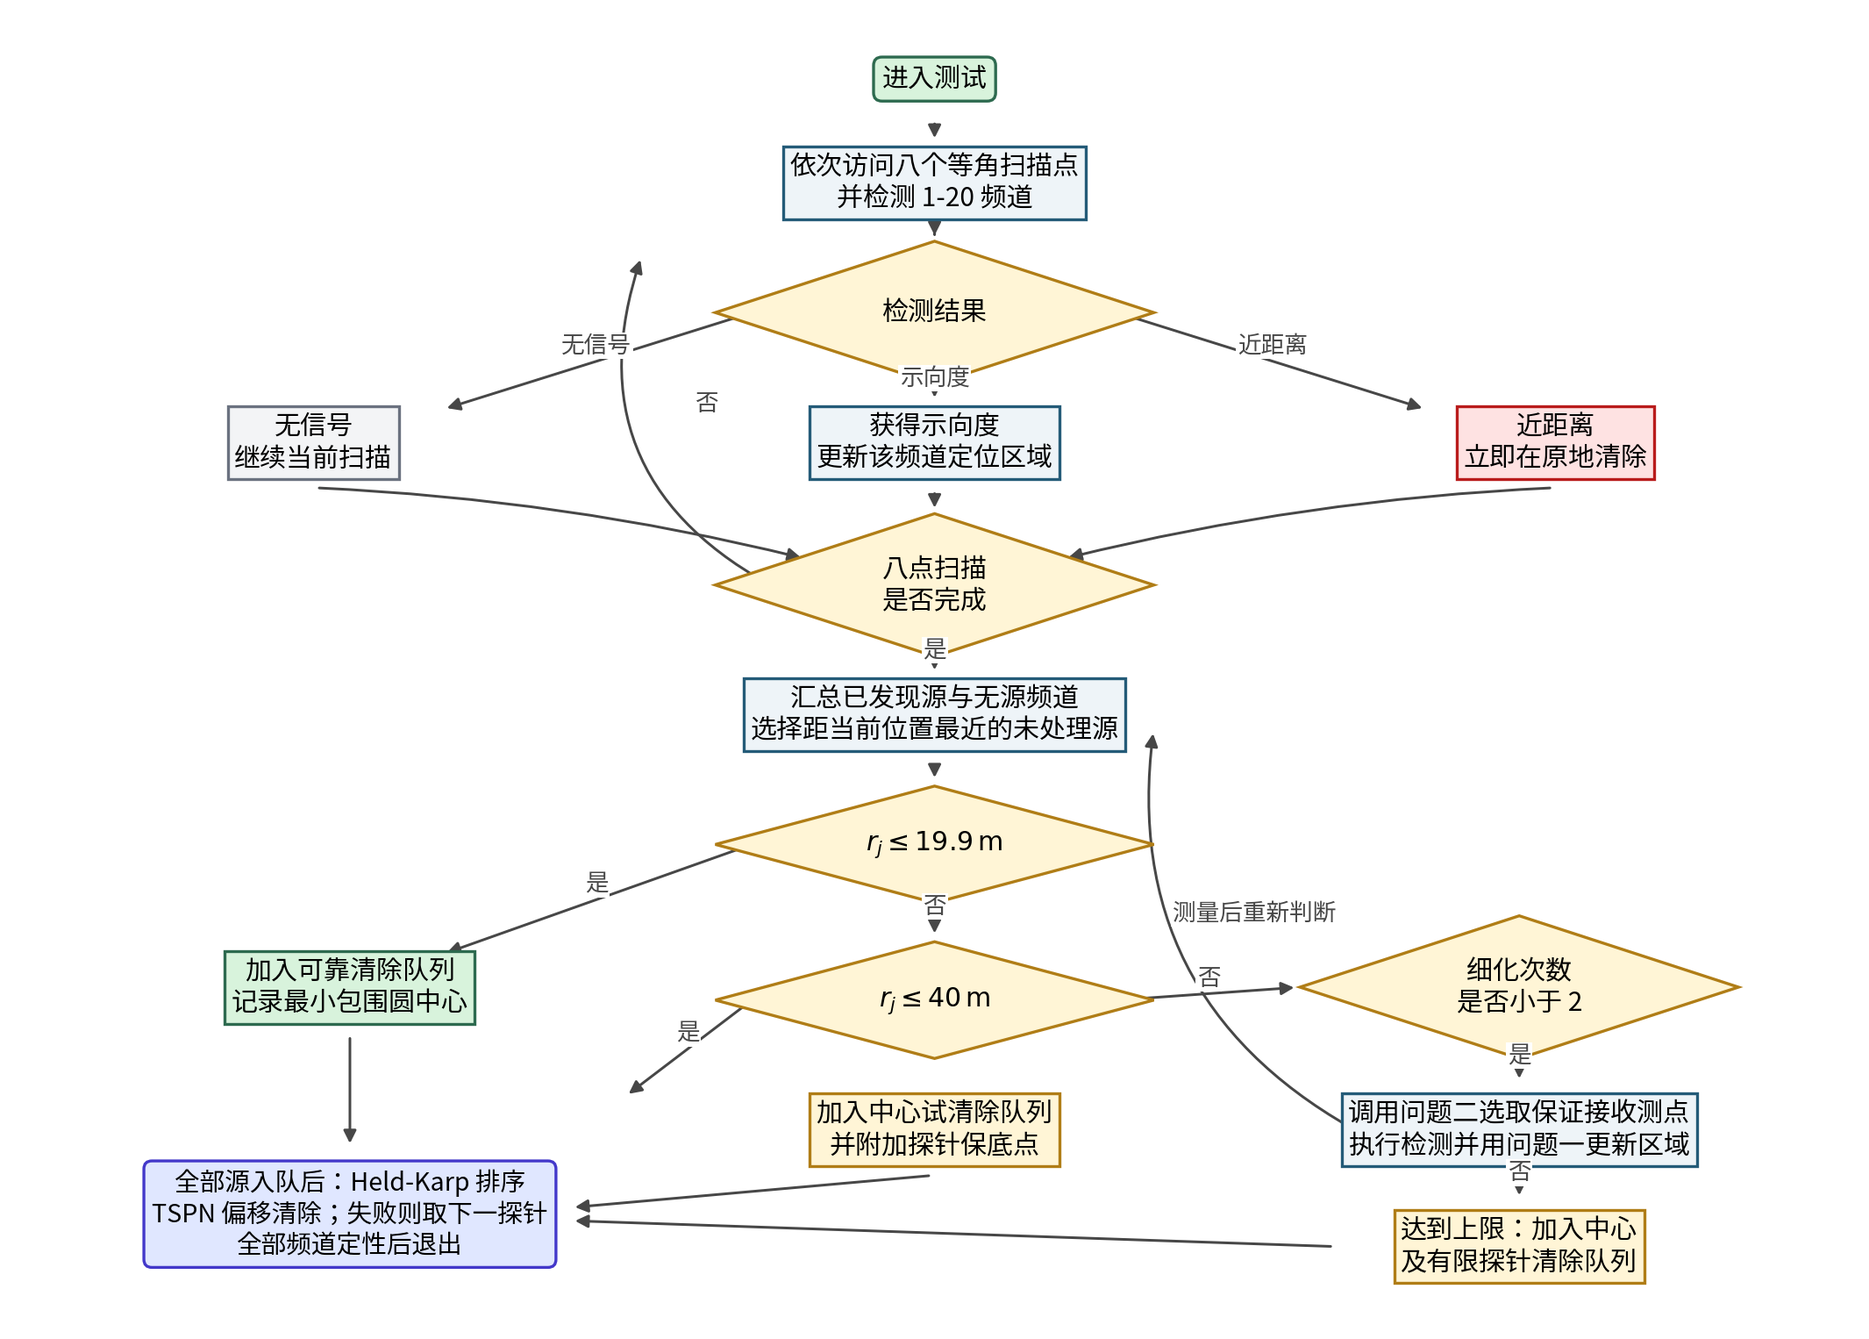
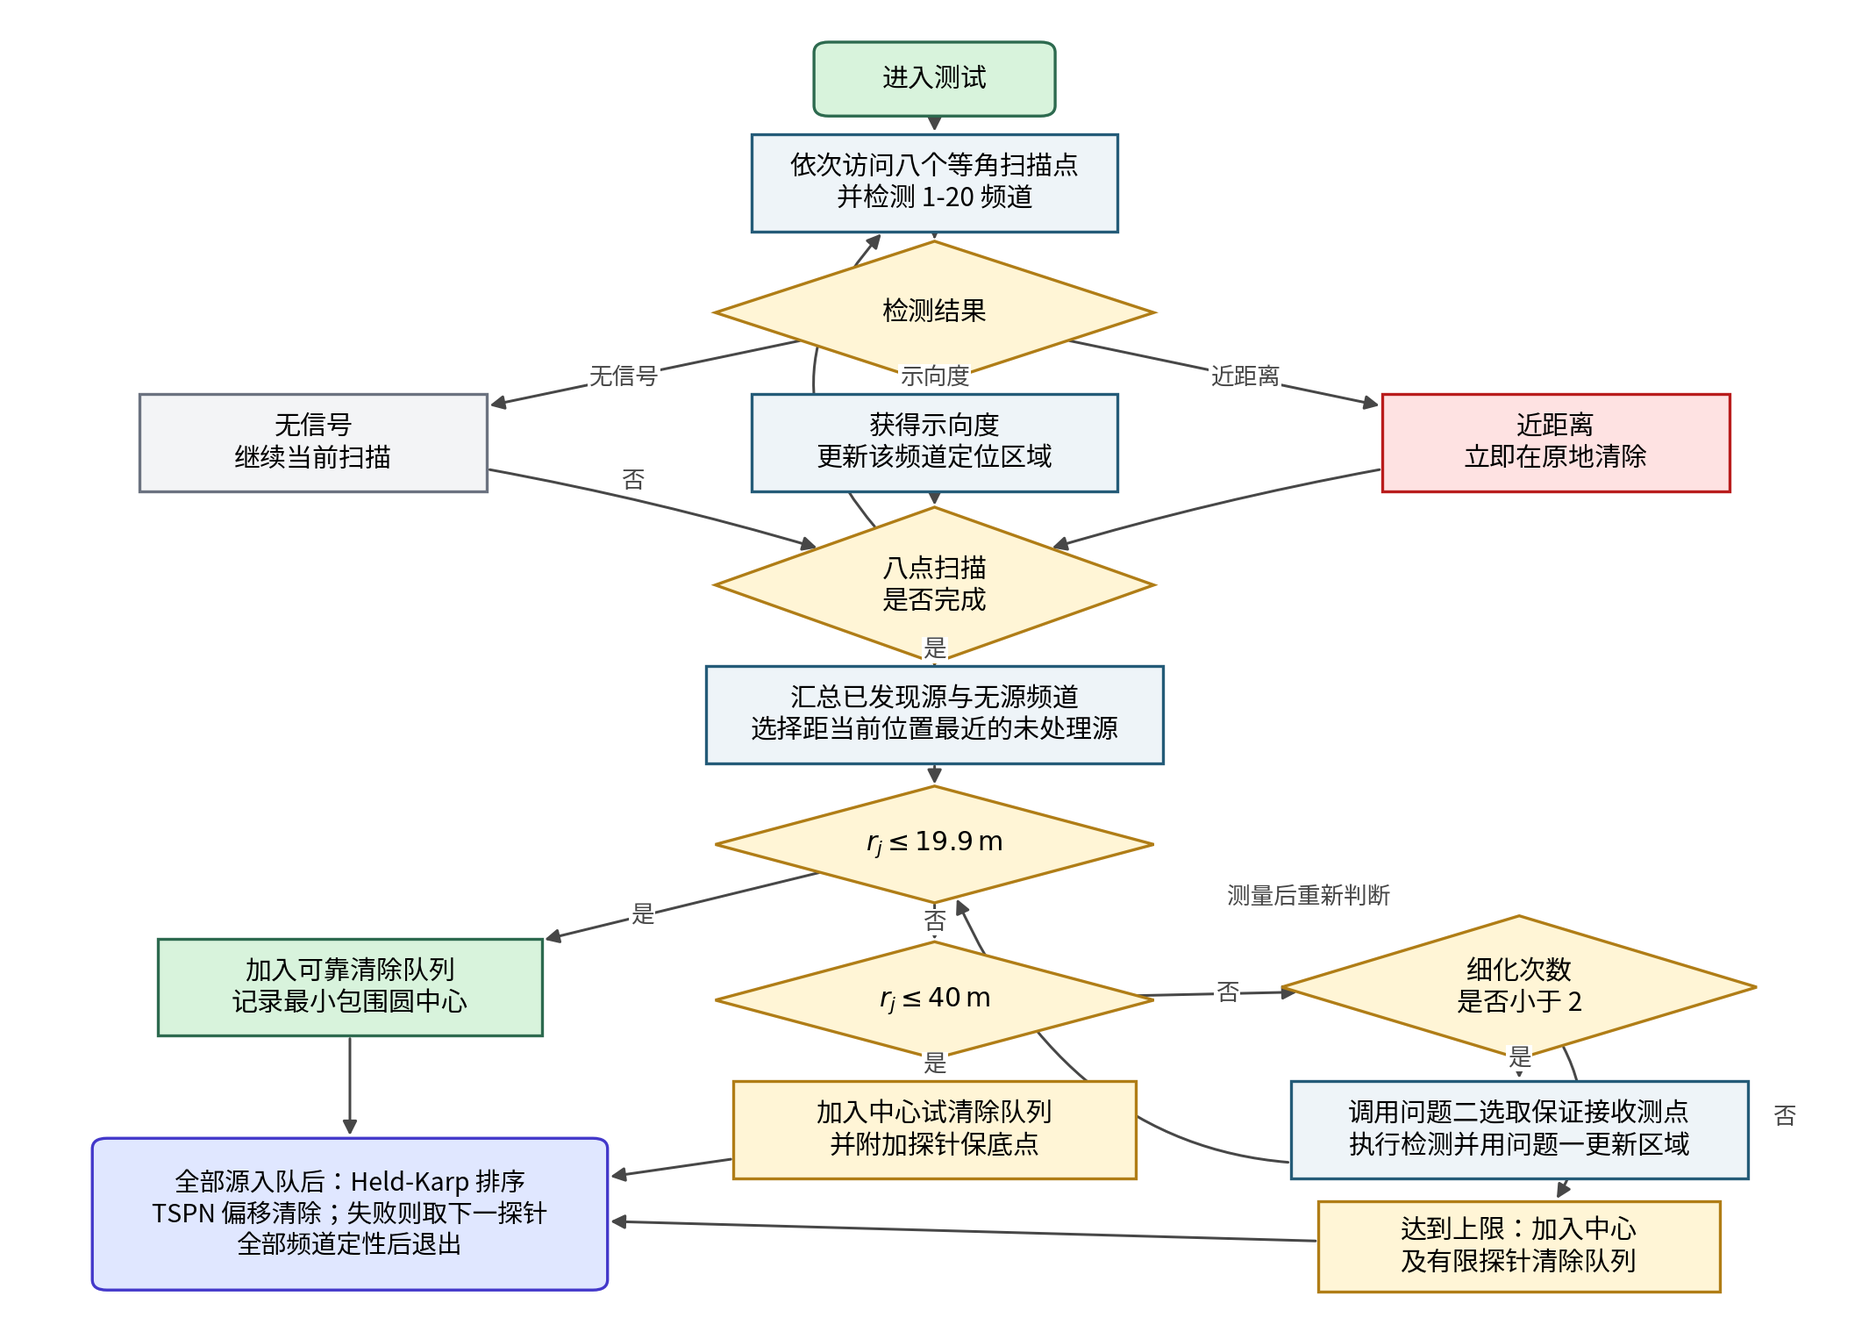
doc: 修改模型假设

diff --git a/paper/code/q3_figures.py b/paper/code/q3_figures.py
@@ -8,7 +8,13 @@ os.environ.setdefault("MPLCONFIGDIR", "/tmp/matplotlib-cumcm-q3-paper")
 
 import matplotlib.pyplot as plt
 from matplotlib.lines import Line2D
-from matplotlib.patches import Circle, FancyArrowPatch, Polygon, Rectangle
+from matplotlib.patches import (
+    Circle,
+    FancyArrowPatch,
+    FancyBboxPatch,
+    Polygon,
+    Rectangle,
+)
 
 
 PAPER_DIR = Path(__file__).resolve().parents[1]
@@ -116,11 +122,22 @@ def plot_scan_layout():
 def _box(ax, center, text, *, width=0.19, height=0.065,
          face="#eef4f8", edge="#245b78", fontsize=9.0, rounded=False):
     x, y = center
-    style = "round,pad=0.32" if rounded else "square,pad=0.25"
+    lower_left = (x - width / 2, y - height / 2)
+    if rounded:
+        patch = FancyBboxPatch(
+            lower_left, width, height,
+            boxstyle="round,pad=0.006,rounding_size=0.008",
+            facecolor=face, edgecolor=edge, linewidth=1.0, zorder=4,
+        )
+    else:
+        patch = Rectangle(
+            lower_left, width, height,
+            facecolor=face, edgecolor=edge, linewidth=1.0, zorder=4,
+        )
+    ax.add_patch(patch)
     ax.text(x, y, text, ha="center", va="center", fontsize=fontsize,
-            linespacing=1.25,
-            bbox={"boxstyle": style, "facecolor": face,
-                  "edgecolor": edge, "linewidth": 1.0}, zorder=5)
+            linespacing=1.25, zorder=5)
+    return {"center": center, "patch": patch}
 
 
 def _diamond(ax, center, text, *, width=0.12, height=0.055,
@@ -128,21 +145,31 @@ def _diamond(ax, center, text, *, width=0.12, height=0.055,
     x, y = center
     vertices = [(x, y + height), (x + width, y),
                 (x, y - height), (x - width, y)]
-    ax.add_patch(Polygon(vertices, closed=True, facecolor=face,
-                         edgecolor=edge, lw=1.0, zorder=4))
+    patch = Polygon(vertices, closed=True, facecolor=face,
+                    edgecolor=edge, lw=1.0, zorder=4)
+    ax.add_patch(patch)
     ax.text(x, y, text, ha="center", va="center", fontsize=fontsize,
             linespacing=1.18, zorder=5)
+    return {"center": center, "patch": patch}
 
 
-def _arrow(ax, start, end, text=None, *, rad=0.0, color="0.28"):
+def _arrow(ax, source, target, text=None, *, rad=0.0, color="0.28",
+           label_pos=None):
+    start = source["center"]
+    end = target["center"]
     ax.add_patch(FancyArrowPatch(
-        start, end, arrowstyle="-|>", mutation_scale=9, lw=0.9,
+        start, end, arrowstyle="-|>", mutation_scale=10, lw=0.9,
         color=color, connectionstyle=f"arc3,rad={rad}", zorder=2,
+        patchA=source["patch"], patchB=target["patch"],
+        shrinkA=0.8, shrinkB=0.8,
     ))
     if text:
-        x = (start[0] + end[0]) / 2
-        y = (start[1] + end[1]) / 2
-        ax.text(x, y + 0.012, text, ha="center", va="center",
+        if label_pos is None:
+            x = (start[0] + end[0]) / 2
+            y = (start[1] + end[1]) / 2
+        else:
+            x, y = label_pos
+        ax.text(x, y, text, ha="center", va="center",
                 fontsize=8.0, color=color,
                 bbox={"facecolor": "white", "edgecolor": "none",
                       "pad": 0.5}, zorder=6)
@@ -154,55 +181,80 @@ def plot_decision_tree():
     ax.set_ylim(0.0, 1.0)
     ax.axis("off")
 
-    _box(ax, (0.50, 0.955), "进入测试", width=0.12, rounded=True,
-         face="#d8f3dc", edge="#2d6a4f")
-    _box(ax, (0.50, 0.875), "依次访问八个等角扫描点\n并检测 1-20 频道")
-    _diamond(ax, (0.50, 0.775), "检测结果")
-    _box(ax, (0.16, 0.675), "无信号\n继续当前扫描", face="#f3f4f6",
-         edge="#6b7280")
-    _box(ax, (0.50, 0.675), "获得示向度\n更新该频道定位区域")
-    _box(ax, (0.84, 0.675), "近距离\n立即在原地清除", face="#fee2e2",
-         edge="#b91c1c")
-    _diamond(ax, (0.50, 0.565), "八点扫描\n是否完成")
-    _box(ax, (0.50, 0.465), "汇总已发现源与无源频道\n选择距当前位置最近的未处理源")
-    _diamond(ax, (0.50, 0.365), r"$r_j\leq19.9\,\mathrm{m}$",
-             height=0.045)
-    _box(ax, (0.18, 0.255), "加入可靠清除队列\n记录最小包围圆中心",
-         face="#d8f3dc", edge="#2d6a4f")
-    _diamond(ax, (0.50, 0.245), r"$r_j\leq40\,\mathrm{m}$",
-             height=0.045)
-    _box(ax, (0.50, 0.145), "加入中心试清除队列\n并附加探针保底点",
-         face="#fff5d6", edge="#b07d16")
-    _diamond(ax, (0.82, 0.255), "细化次数\n是否小于 2")
-    _box(ax, (0.82, 0.145), "调用问题二选取保证接收测点\n执行检测并用问题一更新区域")
-    _box(ax, (0.82, 0.055), "达到上限：加入中心\n及有限探针清除队列",
-         face="#fff5d6", edge="#b07d16")
-    _box(ax, (0.18, 0.080), "全部源入队后：Held-Karp 排序\nTSPN 偏移清除；失败则取下一探针\n全部频道定性后退出",
-         width=0.25, height=0.08, face="#e0e7ff", edge="#4338ca",
-         fontsize=8.6, rounded=True)
+    enter = _box(ax, (0.50, 0.955), "进入测试", width=0.12,
+                 height=0.045, rounded=True,
+                 face="#d8f3dc", edge="#2d6a4f")
+    scan = _box(ax, (0.50, 0.875),
+                "依次访问八个等角扫描点\n并检测 1-20 频道",
+                width=0.20, height=0.075)
+    result = _diamond(ax, (0.50, 0.775), "检测结果")
+    no_signal = _box(ax, (0.16, 0.675), "无信号\n继续当前扫描",
+                     width=0.19, height=0.075,
+                     face="#f3f4f6", edge="#6b7280")
+    bearing = _box(ax, (0.50, 0.675),
+                   "获得示向度\n更新该频道定位区域",
+                   width=0.20, height=0.075)
+    close = _box(ax, (0.84, 0.675), "近距离\n立即在原地清除",
+                 width=0.19, height=0.075,
+                 face="#fee2e2", edge="#b91c1c")
+    scan_done = _diamond(ax, (0.50, 0.565), "八点扫描\n是否完成",
+                         height=0.060)
+    summarize = _box(ax, (0.50, 0.465),
+                     "汇总已发现源与无源频道\n选择距当前位置最近的未处理源",
+                     width=0.25, height=0.075)
+    located = _diamond(ax, (0.50, 0.365),
+                       r"$r_j\leq19.9\,\mathrm{m}$", height=0.045)
+    reliable = _box(ax, (0.18, 0.255),
+                    "加入可靠清除队列\n记录最小包围圆中心",
+                    width=0.21, height=0.075,
+                    face="#d8f3dc", edge="#2d6a4f")
+    trial_ready = _diamond(ax, (0.50, 0.245),
+                           r"$r_j\leq40\,\mathrm{m}$", height=0.045)
+    trial_queue = _box(ax, (0.50, 0.145),
+                       "加入中心试清除队列\n并附加探针保底点",
+                       width=0.22, height=0.075,
+                       face="#fff5d6", edge="#b07d16")
+    refine = _diamond(ax, (0.82, 0.255), "细化次数\n是否小于 2",
+                      width=0.13, height=0.055)
+    measure = _box(ax, (0.82, 0.145),
+                   "调用问题二选取保证接收测点\n执行检测并用问题一更新区域",
+                   width=0.25, height=0.075)
+    probe_queue = _box(ax, (0.82, 0.055),
+                       "达到上限：加入中心\n及有限探针清除队列",
+                       width=0.22, height=0.070,
+                       face="#fff5d6", edge="#b07d16")
+    finish = _box(ax, (0.18, 0.080),
+                  "全部源入队后：Held-Karp 排序\n"
+                  "TSPN 偏移清除；失败则取下一探针\n"
+                  "全部频道定性后退出",
+                  width=0.27, height=0.105,
+                  face="#e0e7ff", edge="#4338ca",
+                  fontsize=8.6, rounded=True)
 
-    _arrow(ax, (0.50, 0.925), (0.50, 0.905))
-    _arrow(ax, (0.50, 0.84), (0.50, 0.83))
-    _arrow(ax, (0.40, 0.775), (0.23, 0.70), "无信号")
-    _arrow(ax, (0.50, 0.72), (0.50, 0.705), "示向度")
-    _arrow(ax, (0.60, 0.775), (0.77, 0.70), "近距离")
-    _arrow(ax, (0.16, 0.64), (0.43, 0.585), rad=-0.05)
-    _arrow(ax, (0.50, 0.64), (0.50, 0.62))
-    _arrow(ax, (0.84, 0.64), (0.57, 0.585), rad=0.05)
-    _arrow(ax, (0.41, 0.565), (0.34, 0.82), "否", rad=-0.42)
-    _arrow(ax, (0.50, 0.51), (0.50, 0.495), "是")
-    _arrow(ax, (0.50, 0.43), (0.50, 0.412))
-    _arrow(ax, (0.40, 0.365), (0.23, 0.28), "是")
-    _arrow(ax, (0.50, 0.318), (0.50, 0.292), "否")
-    _arrow(ax, (0.40, 0.245), (0.33, 0.17), "是")
-    _arrow(ax, (0.60, 0.245), (0.70, 0.255), "否")
-    _arrow(ax, (0.82, 0.20), (0.82, 0.18), "是")
-    _arrow(ax, (0.82, 0.11), (0.82, 0.09), "否")
-    _arrow(ax, (0.73, 0.145), (0.62, 0.455),
-           "测量后重新判断", rad=-0.34)
-    _arrow(ax, (0.18, 0.22), (0.18, 0.13))
-    _arrow(ax, (0.50, 0.11), (0.30, 0.085))
-    _arrow(ax, (0.72, 0.055), (0.30, 0.075))
+    _arrow(ax, enter, scan)
+    _arrow(ax, scan, result)
+    _arrow(ax, result, no_signal, "无信号")
+    _arrow(ax, result, bearing, "示向度")
+    _arrow(ax, result, close, "近距离")
+    _arrow(ax, no_signal, scan_done, rad=-0.05)
+    _arrow(ax, bearing, scan_done)
+    _arrow(ax, close, scan_done, rad=0.05)
+    _arrow(ax, scan_done, scan, "否", rad=-0.60,
+           label_pos=(0.335, 0.645))
+    _arrow(ax, scan_done, summarize, "是")
+    _arrow(ax, summarize, located)
+    _arrow(ax, located, reliable, "是")
+    _arrow(ax, located, trial_ready, "否")
+    _arrow(ax, trial_ready, trial_queue, "是")
+    _arrow(ax, trial_ready, refine, "否")
+    _arrow(ax, refine, measure, "是")
+    _arrow(ax, refine, probe_queue, "否", rad=-0.48,
+           label_pos=(0.965, 0.155))
+    _arrow(ax, measure, located, "测量后重新判断", rad=-0.48,
+           label_pos=(0.705, 0.325))
+    _arrow(ax, reliable, finish)
+    _arrow(ax, trial_queue, finish)
+    _arrow(ax, probe_queue, finish)
 
     save_figure(fig, "q3-decision-tree")
 

diff --git a/paper/sections/04_model_assumptions.tex b/paper/sections/04_model_assumptions.tex
@@ -3,34 +3,25 @@
 \subsection{问题一的模型假设}
 
 \begin{enumerate}
-  \item 问题一题干原文要求“计算多边形定位区域直径”，故本问将每次检测所得示向度的误差区域，视为从检测点出发、向前无限延伸的两条射线所夹的扇形区域，定位区域只取这些扇形区域的公共部分，不再使用有效接收半径或半径为 $1800\ \mathrm{m}$ 的目标圆形区域对其进行裁剪；
-  \item 主要讨论交会有效的情形，即多个角度误差区域的公共部分非空、有界且面积不为零。若公共部分为空或无界，则不存在题目所述的多边形直径。
+  \item 问题一用各示向误差边界射线公共交集形成的多边形，近似同时受到有效接收半径与目标圆形区域约束的真实可行域。该近似不作圆盘裁剪，因而忽略真实可行域中可能出现的圆弧边界，所得多边形是实际物理可行域的保守外包；这一近似仅用于题目要求的多边形定位区域直径与覆盖判定。
 \end{enumerate}
 
 \subsection{问题二的模型假设}
 
 \begin{enumerate}
-  \item 示向度误差按题设的有界误差处理，不预设其服从特定概率分布。连续选点中的等方差局部扰动仅用于构造 Fisher 信息替代指标，不改变最终的定位不确定性半径评价标准；
-  \item 为保持源位置区域的凸性，不从首次检测所得示向度对应的区域中扣除半径为 $5\ \mathrm{m}$ 的“近距离”圆孔。该处理只可能放大可行域，不会排除真实源；
-  \item 对于无法保证接收的第二测点，如果在该点未收到信号且定位区域也没有有效缩小，就视为不利情况，暂时不利用无信号结果可能提供的排除信息。
+  \item 在连续 Fisher 信息选点中，用相互独立且具有相同局部方差的小角扰动近似两次检测的实际示向误差。该近似只用于比较候选点的局部信息量，最终测点仍按有界误差下的最坏定位不确定性评价；
+  \item 首次返回有效示向度意味着真实源不在以检测点为圆心、半径为 $5\ \mathrm{m}$ 的“近距离”圆内。本文忽略这一圆孔，用未扣孔的凸区域近似真实可行域；该近似只会放大可行域，不会排除真实源。
 \end{enumerate}
 
 \subsection{问题三的模型假设}
 
 \begin{enumerate}
-  \item 对每个频道分别维护源位置可行域；已经获得示向度的频道在后续扫描中不再承担“发现新源”的作用，其重复检测仅用于缩小该频道已有源的定位区域；
-  \item 默认策略不利用单次无信号结果切除源位置区域。一个频道只有在八个保证覆盖驻留点均完成检测、且从未返回示向度或近距离结果时，才被归入无源频道集合；
-  \item 补充定位阶段采用有限源位置场景、有限误差端点和有限次数的数值选点。该模型用于产生可执行的较优测点，不假定其达到连续空间中的全局最优；
-  \item 多源调度采用“先形成清除队列、再优化队列中心访问顺序”的分阶段近似。旅行商模型优化的是各中心之间的开放路径，不把定位过程中已经发生的移动及从当前位置到首个清除点的距离纳入同一全局目标；
-  \item 对尚未完成可靠定位的源使用有限探针集合近似连续清除区域。仅在完整覆盖该源最小包围圆所需的探针数不超过程序上限时，使用其确定性覆盖结论；其余情形作为有限试探策略处理。
+  \item 补充定位阶段用有限个代表源位置和误差取值，近似连续的源位置区域与有界示向误差范围。该离散化只用于预测候选测点的定位效果，真实响应仍用于更新定位区域，所得测点不宣称为连续空间中的全局最优解。
 \end{enumerate}
 
 \subsection{问题四的模型假设}
 
 \begin{enumerate}
-  \item 有效示向度继续用于更新连续的源位置外近似；单次无信号结果只用于筛除与其不相容的有限可能状态，不直接从凸多边形定位区域中挖去非凸部分；
-  \item 为控制在线计算量，源位置从当前定位区域中选取不超过 $12$ 个代表点，接收半径取 $1000$、$1250$、$1500\ \mathrm{m}$，定向角以 $10^\circ$ 间隔离散，并补充各历史检测点对应的可见边界方向；该有限化只用于比较下一步行动，不作为连续空间的完整刻画；
-  \item 在缺少全向源和定向源比例信息时，两类源的初始总相对权重均取 $0.5$，再在各自的有限可能状态中均分；这些权重仅服务于行动时间的相对评价，不解释为统计调查所得概率；
-  \item 获得新示向度后，清除覆盖点数近似随定位区域最小包围圆半径的平方变化；该面积比例用于预估后续行动时间，实际是否清除以及定位区域更新仍以模拟器真实返回结果为准；
-  \item 三角网平移量以及最近邻加 $2$-opt 的扫描顺序是满足覆盖要求的有限数值选择，只主张当前点集具有定向发现保证，不假定驻留点数量或扫描路径达到全局最优。
+  \item 用有限联合状态近似由连续源位置、连续接收半径、连续发射方向和离散源类型组成的真实状态空间。有限状态只用于比较下一步行动，不作为全部连续可能状态的完整刻画；
+  \item 用定位区域最小包围圆半径的平方比，近似获得新示向度前后清除覆盖工作量之比。其依据是固定密度清除点的数量主要随覆盖面积变化；当定位区域较小、形状狭长或边界效应显著时，该近似精度会下降，因此只用于预估行动时间，实际清除与区域更新仍以真实返回结果为准。
 \end{enumerate}

diff --git a/ai_log/20260913-173721_root_复核Q3决策树箭头.md b/ai_log/20260913-173721_root_复核Q3决策树箭头.md
@@ -1,0 +1,13 @@
+# AI 使用记录：复核 Q3 决策树箭头
+
+## 输入
+
+```text
+问题3决策树箭头没有指到位，复核并修改
+```
+
+## 运行结果
+
+已复核并修改 `paper/code/q3_figures.py` 的问题三决策树绘制逻辑。原矩形节点由文字边框自动生成，`width`、`height` 参数未形成真实几何边界，箭头则使用手工坐标，导致字号和框体变化后端点偏离。现改为显式矩形、圆角矩形和菱形节点，21 条连线均引用源、目标节点边界自动裁切；同时修正“扫描未完成”返回扫描步骤、“测量后重新判断”返回 `r_j≤19.9 m` 判断、细化次数不小于 2 直接进入有限探针队列三条连线，并调整回路标签位置。
+
+已重新生成 `paper/figures/q3-decision-tree.pdf` 与 `paper/figures/q3-decision-tree.png`。Python 源码编译检查通过，PDF 为单页 639.36×457.92 pt，PNG 为 2131×1526 像素；使用 Poppler 将最终 PDF 重新渲染为 PNG 并逐项目视检查，箭头均落在对应节点边界，未见框线、文字或箭头裁切。生成时出现不影响退出状态的音频流权限提示，Poppler 对嵌入字体给出类型不匹配警告，但最终图中文字与几何元素均正常显示。

diff --git a/ai_log/20260913-180107_root_审查模型假设.md b/ai_log/20260913-180107_root_审查模型假设.md
@@ -1,0 +1,11 @@
+# AI 使用记录：审查模型假设
+
+## 输入
+
+```text
+检查论文中04模型假设的内容，判断其确实是对真实情况的近似还是只是模型的设定。如果是后者则删去。先向我汇报
+```
+
+## 运行结果
+
+完成对 `paper/sections/04_model_assumptions.tex` 全部 15 条内容的逐项审查，并与问题重述、问题分析及问题一至问题四建模正文交叉核对。经用户确认后，将该节缩减为 6 条真实或连续情形近似：问题一的保守多边形外包，问题二的局部同方差测向近似与近距离圆孔忽略，问题三的有限场景近似，以及问题四的有限联合状态和面积比例工作量近似。删除了 9 条适用边界、状态更新规则、流程分解、启发式策略或权重设定；相关方法与限制仍保留在各问建模正文中。静态检查确认 4 组 `enumerate` 环境配对、共 6 个条目，已删除内容的关键表述不再出现在模型假设文件中。当前环境未找到 XeLaTeX，因此未执行整篇编译。
